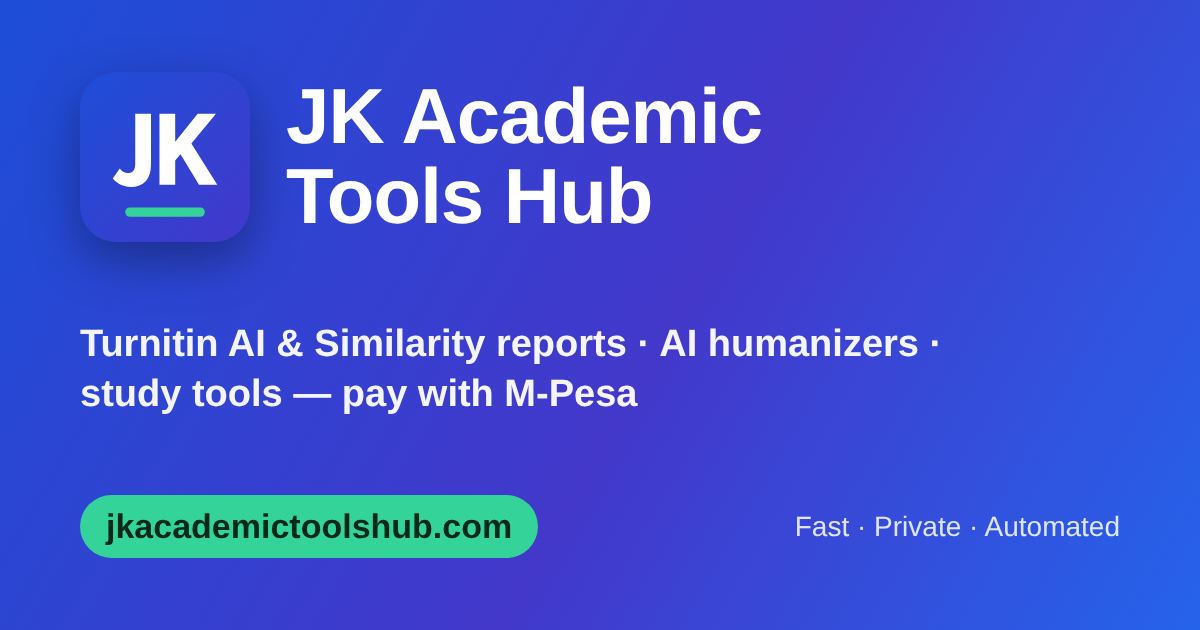
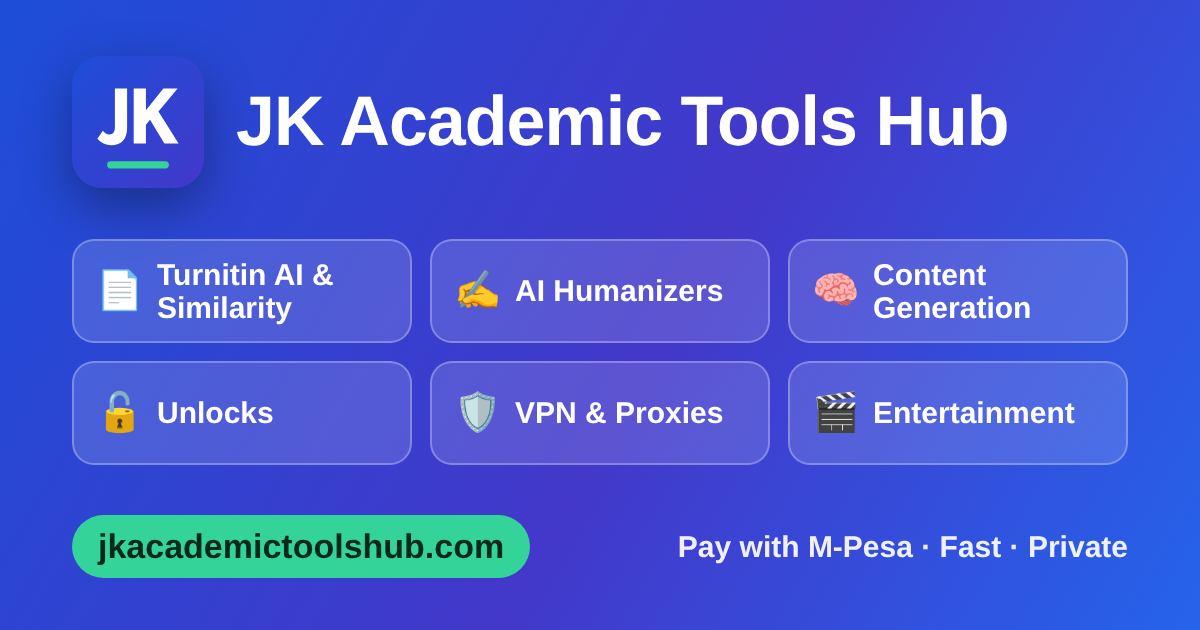
Share image and descriptions list all six categories
Claude-Session: https://claude.ai/code/session_01B7jMuS5rJH8UwbRPR7ypAT

diff --git a/index.html b/index.html
@@ -16,7 +16,7 @@
     <title>JK Academic Tools Hub | Academic Tools and Services</title>
     <meta
       name="description"
-      content="JK Academic Tools Hub offers academic tools and services for students and researchers, including AI humanizers, content support, Turnitin guidance, training resources, and more."
+      content="JK Academic Tools Hub: Turnitin AI &amp; similarity reports, AI humanizers, content generation, unlocks, VPN &amp; proxies and entertainment tools. Pay with M-Pesa."
     />
     <meta name="robots" content="index, follow" />
 
@@ -27,17 +27,17 @@
 
     <meta property="og:type" content="website" />
     <meta property="og:site_name" content="JK Academic Tools Hub" />
-    <meta property="og:image" content="https://jkacademictoolshub.com/og-image.png" />
+    <meta property="og:image" content="https://jkacademictoolshub.com/og-image.png?v=3" />
     <meta property="og:image:width" content="1200" />
     <meta property="og:image:height" content="630" />
-    <meta property="og:image:alt" content="JK Academic Tools Hub — Turnitin AI and similarity reports, pay with M-Pesa" />
+    <meta property="og:image:alt" content="JK Academic Tools Hub — Turnitin, AI humanizers, content generation, unlocks, VPN &amp; proxies, entertainment" />
     <meta
       property="og:title"
       content="JK Academic Tools Hub | Academic Tools and Services"
     />
     <meta
       property="og:description"
-      content="Explore academic tools and services from JK Academic Tools Hub."
+      content="JK Academic Tools Hub: Turnitin AI &amp; similarity reports, AI humanizers, content generation, unlocks, VPN &amp; proxies and entertainment tools. Pay with M-Pesa."
     />
     <meta
       property="og:url"
@@ -45,14 +45,14 @@
     />
 
     <meta name="twitter:card" content="summary_large_image" />
-    <meta name="twitter:image" content="https://jkacademictoolshub.com/og-image.png" />
+    <meta name="twitter:image" content="https://jkacademictoolshub.com/og-image.png?v=3" />
     <meta
       name="twitter:title"
       content="JK Academic Tools Hub | Academic Tools and Services"
     />
     <meta
       name="twitter:description"
-      content="Explore academic tools and services from JK Academic Tools Hub."
+      content="JK Academic Tools Hub: Turnitin AI &amp; similarity reports, AI humanizers, content generation, unlocks, VPN &amp; proxies and entertainment tools. Pay with M-Pesa."
     />
 
     <script type="application/ld+json">
